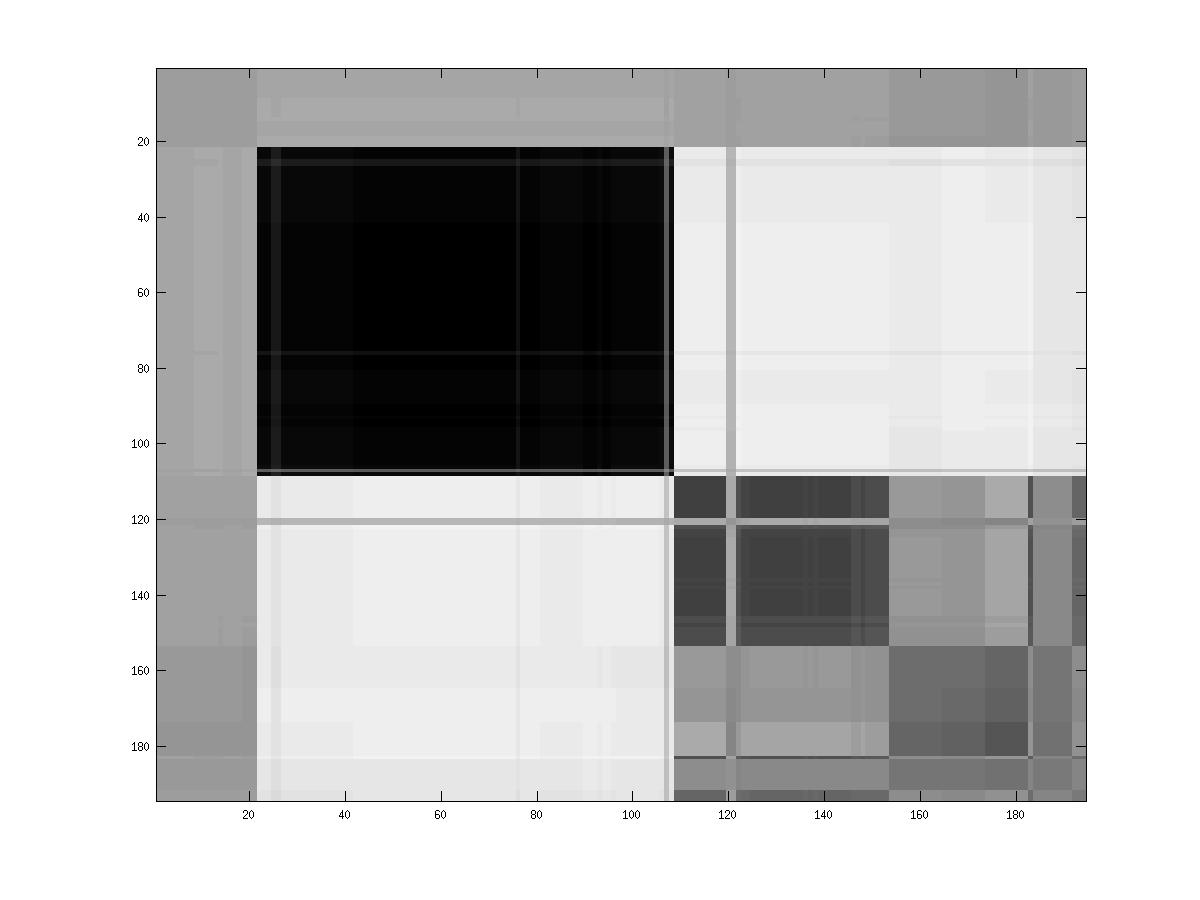
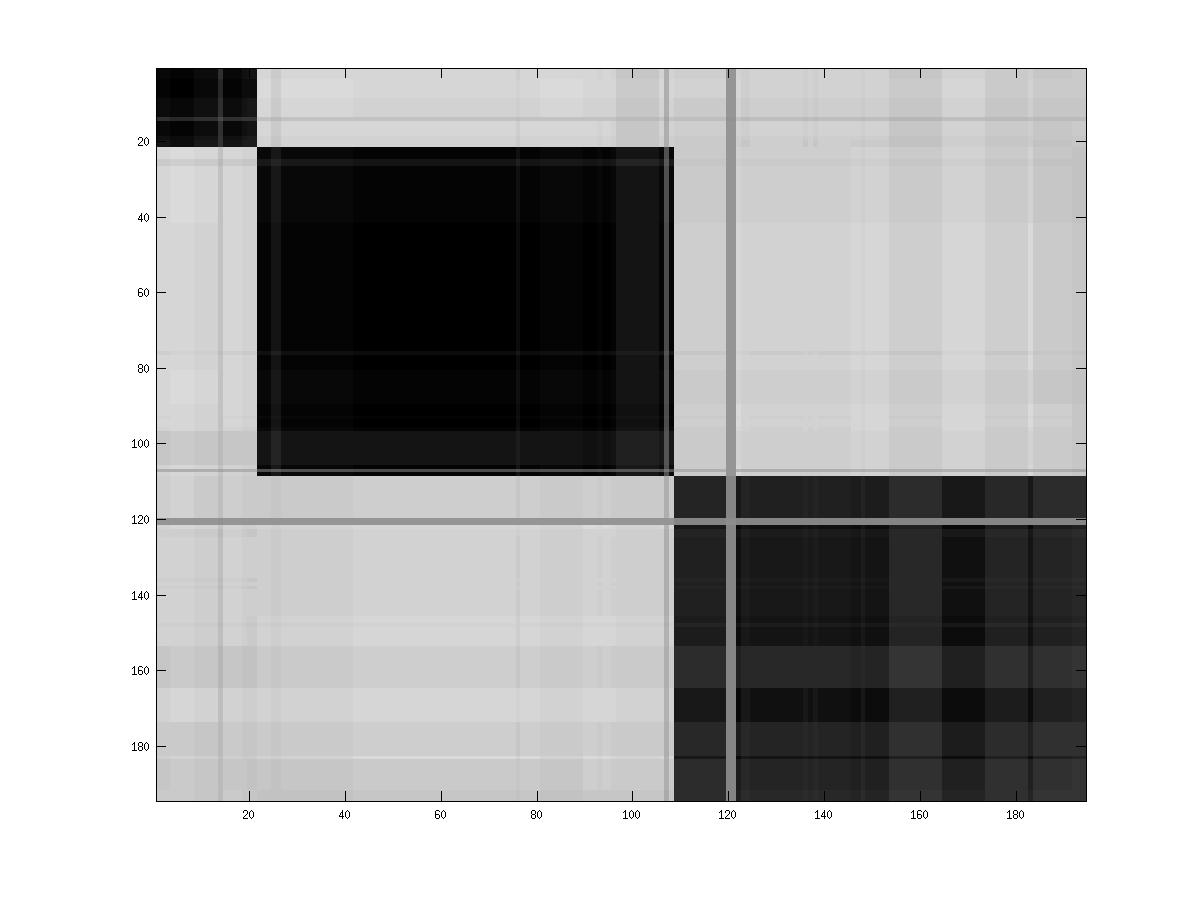
init

diff --git a/demo_gdp194.m b/demo_gdp194.m
@@ -11,7 +11,7 @@ D01 = D./max(D(:));
 f = figure('Visible','off');imagesc(D.^2);colormap('gray');colorbar;
 print(f, '-djpeg', 'Results/GDP194/Images/GDP194.jpg');
 
-transforms = {'SU','BS','PF','EP','LF','SU'};
+transforms = {'NE','SU','BS','PF','EP','LF'};
                     
 %% iRFCM configurations/options (those are the default values)
 options.fuzzifier        = 2;
@@ -24,7 +24,9 @@ c= 3;
 
 %% Since RFCM failed we need to run iRFCM
 % loop for every delta
-for i=1:1 %length(transforms)
+for i=1:2 %length(transforms)
+    transforms{i}
+    
     options.transform = transforms{i};
     out = inerfcm(D.^2,c,options);
     
